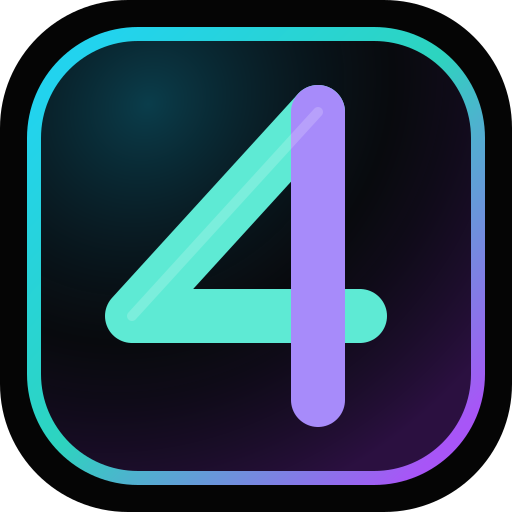
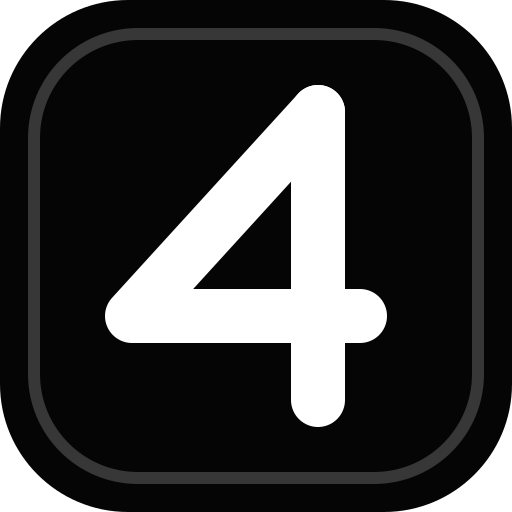
fix: adotar marca JE4NDEV monocromática

diff --git a/docs/brand/email-signature.html b/docs/brand/email-signature.html
@@ -1,0 +1,30 @@
+<!doctype html>
+<html lang="pt-BR">
+  <head>
+    <meta charset="utf-8" />
+    <title>Assinatura de e-mail JE4NDEV</title>
+  </head>
+  <body style="margin: 0; background: #ffffff; font-family: Arial, sans-serif; color: #111111">
+    <table role="presentation" cellpadding="0" cellspacing="0" border="0" style="width: 100%; max-width: 520px">
+      <tr>
+        <td style="padding: 0 22px 0 0; vertical-align: middle; border-right: 1px solid #d4d4d8">
+          <img
+            src="https://je4ndev.com/brand/je4ndev-wordmark-black.svg"
+            width="148"
+            alt="JE4NDEV"
+            style="display: block; width: 148px; height: auto; border: 0"
+          />
+        </td>
+        <td style="padding: 0 0 0 22px; vertical-align: middle">
+          <p style="margin: 0 0 4px; font-size: 15px; line-height: 20px; font-weight: 700">Jean Carlos Vargas</p>
+          <p style="margin: 0 0 10px; font-size: 12px; line-height: 17px; color: #52525b">Founder · Sites, sistemas e SaaS</p>
+          <p style="margin: 0; font-size: 12px; line-height: 18px">
+            <a href="mailto:jean@je4ndev.com" style="color: #111111; text-decoration: none">jean@je4ndev.com</a><br />
+            <a href="https://je4ndev.com" style="color: #111111; text-decoration: none">je4ndev.com</a><br />
+            <a href="https://wa.me/5511948477047" style="color: #111111; text-decoration: none">+55 11 94847-7047</a>
+          </p>
+        </td>
+      </tr>
+    </table>
+  </body>
+</html>

diff --git a/src/components/brand/brand-logo.tsx b/src/components/brand/brand-logo.tsx
@@ -36,20 +36,20 @@ export function BrandLogo({ className = "", size = "md" }: BrandLogoProps) {
       >
         <path
           d="M13.5 2.5 3 14h12.5"
-          stroke="#5EEAD4"
+          stroke="currentColor"
           strokeWidth="3.2"
           strokeLinecap="round"
           strokeLinejoin="round"
         />
         <path
           d="M13.5 2.5v19"
-          stroke="#A78BFA"
+          stroke="currentColor"
           strokeWidth="3.2"
           strokeLinecap="round"
         />
       </svg>
       <span>N</span>
-      <span className="ml-[0.12em] text-purple-400">DEV</span>
+      <span className="ml-[0.12em]">DEV</span>
     </span>
   );
 }

diff --git a/src/components/layout/navbar.tsx b/src/components/layout/navbar.tsx
@@ -68,7 +68,7 @@ export function Navbar() {
             onClick={closeMobile}
             aria-label="JE4NDEV"
           >
-            <BrandLogo className="transition-[filter,letter-spacing] duration-300 group-hover:tracking-[0.11em] group-hover:drop-shadow-[0_0_12px_rgba(94,234,212,0.24)]" />
+            <BrandLogo className="transition-[opacity,letter-spacing] duration-300 group-hover:tracking-[0.11em] group-hover:opacity-80" />
           </Link>
 
           {/* Desktop nav */}

diff --git a/docs/CLAUDE-DESIGN-INTEGRATION.md b/docs/CLAUDE-DESIGN-INTEGRATION.md
@@ -51,7 +51,7 @@ Reading `src/components/sections/*` and `src/i18n/translations/*` in the repo wi
 ├── SKILL.md                   ← agent skill manifest (use with Claude Code)
 ├── colors_and_type.css        ← all tokens — colors, type, radii, shadows
 ├── assets/                    ← logos, hero photo, project screenshots
-│   ├── brand-icon.svg            Custom 4 mark with cyan→violet gradient
+│   ├── brand-icon.svg            Monochrome custom 4 mark
 │   ├── apple-touch-icon.png      180×180 brand icon (raster)
 │   ├── android-chrome-512x512.png
 │   ├── favicon-32x32.png
@@ -93,7 +93,7 @@ Reading `src/components/sections/*` and `src/i18n/translations/*` in the repo wi
 ### Casing
 - **Sentence case for headings.** `Projetos selecionados`, not `Projetos Selecionados`. Even at h1.
 - **UPPERCASE only for eyebrows / overlines.** Tracked `0.18em`, weight 600, accent-violet color. Example: `PROJETOS EM DESTAQUE`.
-- **lowercase + UPPERCASE letter-mix in code.** `je4ndev`, `JE4NVRG`, `je4ndev/build` — the brand name is intentionally stylised.
+- **JE4NDEV is always uppercase in brand applications.** Lowercase is reserved for domains, emails, URLs, and code identifiers.
 - **Status pills are lowercase**: `live`, `mvp`, `case`, `internal`, `demo`.
 
 ### Numbers and stats
@@ -146,7 +146,7 @@ Reading `src/components/sections/*` and `src/i18n/translations/*` in the repo wi
 ### Color usage rules
 - **`#050505` base + `#ededed` foreground** is the resting state.
 - **Accents are functional, not decorative.**
-  - **Cyan `#5EEAD4`** = terminal output, hover lift on featured project cards, custom 4 diagonal.
+  - **Cyan `#5EEAD4`** = terminal output and hover lift on featured project cards. Never apply it to the logo.
   - **Violet `#8B5CF6`** = eyebrow labels, service icon backgrounds, ::selection.
   - **Emerald `#10B981`** = `$` prompt, `live` status, strengths checkmarks.
   - **Magenta / pink `#EC4899`** = single-instance accents (pricing metric, contact title gradient).
@@ -172,7 +172,7 @@ Reading `src/components/sections/*` and `src/i18n/translations/*` in the repo wi
 ### Borders
 - Every interactive surface has a **single-pixel white ring at low alpha**: `border-white/[0.06]` resting, `border-white/[0.1]` for slightly elevated, `border-white/[0.16]` on hover.
 - No double borders. No dashed. No colored borders **except** status pills (10–25% alpha of the status color).
-- Brand icon uses a `border-cyan-300/25` — the only ringed accent.
+- Brand icon is monochrome and has no colored ring.
 
 ### Corner radii
 - **`16px` minimum** for any card or button container — this is a hard brand rule.
@@ -187,7 +187,7 @@ Reading `src/components/sections/*` and `src/i18n/translations/*` in the repo wi
 - Two exceptions:
   - Project cards: `shadow-[0_22px_80px_-55px_rgba(255,255,255,0.35)]` — a **white halo bloom downward** that reads as "lifted off black" rather than "casting a shadow on white".
   - Hero photo card: `shadow-2xl shadow-black/40` — a deep black absorption shadow.
-- Brand icon: `shadow-[0_0_28px_-14px_rgba(34,211,238,0.9)]` — a **cyan glow** (the only colored glow in the system).
+- Brand icon and wordmark never use glow or colored shadows.
 
 ### Transparency & blur
 - **Backdrop-blur is reserved for chrome.** Navbar (`backdrop-blur-xl`), mobile menu overlay (`backdrop-blur-sm`), and a soft `backdrop-blur-[2px]` on the gradient strip over the hero photo.
@@ -261,8 +261,10 @@ artwork:    aspect-[16/9] with project gradient + image + bottom black fade
 - A **pulsing green dot** built from two stacked spans (`animate-ping` outer + solid `bg-green-500` inner). Used in: hero status badge, project `live` pill. Never replaced with an emoji.
 
 ### Logo / brand identity
-- `public/je4ndev-logo.svg` — the complete JE4NDEV wordmark. The custom 4 replaces the A and is the only compact symbol derived from the name.
-- `public/brand-icon.svg` — a 512×512 rounded square using the same custom 4 for favicons and app shortcuts.
+- The identity is strictly monochrome: black on light backgrounds or white on dark backgrounds.
+- `public/je4ndev-logo.svg` — the adaptive complete JE4NDEV wordmark. The custom 4 replaces the A and is the only compact symbol derived from the name.
+- `public/brand/` — explicit black and white wordmarks and symbols for print, embroidery, engraving, uniforms, and email.
+- `public/brand-icon.svg` — a 512×512 black app icon using the white custom 4 for favicons and shortcuts.
 - The runtime `BrandLogo` renders the complete wordmark in navigation and footer. Never abbreviate the brand in customer-facing UI.
 
 ### Emoji & unicode

diff --git a/docs/brand/README.md b/docs/brand/README.md
@@ -1,0 +1,49 @@
+# Identidade JE4NDEV
+
+## Princípio
+
+A marca é monocromática. O logotipo deve aparecer somente em preto ou branco.
+Ciano, violeta e outras cores pertencem à interface dos produtos e nunca ao
+logotipo.
+
+O `4` desenhado sob medida substitui a letra A em JE4NDEV. O nome nunca deve ser
+abreviado na comunicação com clientes.
+
+## Arquivos oficiais
+
+| Uso | Fundo claro | Fundo escuro |
+| --- | --- | --- |
+| Logo principal | `je4ndev-wordmark-black.svg` | `je4ndev-wordmark-white.svg` |
+| Símbolo compacto | `je4ndev-symbol-black.svg` | `je4ndev-symbol-white.svg` |
+
+Os arquivos estão em `public/brand/`.
+
+## Aplicações
+
+- Cartão e papelaria: logo preto sobre branco ou branco sobre preto.
+- Uniforme e bordado: uma única linha/cor; símbolo com pelo menos 20 mm.
+- Garrafa e gravação: símbolo ou wordmark em uma cor, sem fundo e sem efeitos.
+- Assinatura de e-mail: wordmark preto, 140 a 180 px de largura.
+- Site: wordmark branco na navbar escura; cores do produto ficam fora da marca.
+- Favicon: símbolo branco sobre fundo preto.
+
+## Tamanhos mínimos
+
+- Wordmark digital: 120 px de largura.
+- Wordmark impresso: 35 mm de largura.
+- Símbolo digital: 24 px.
+- Símbolo impresso/bordado: 10 mm; preferir 20 mm em tecido.
+
+## Não fazer
+
+- Não usar gradiente, glow, sombra ou contorno colorido.
+- Não alterar as proporções ou o espaçamento.
+- Não usar símbolos prontos de bancos de ícones ou Canva.
+- Não abreviar o nome.
+- Não posicionar sobre fundos com pouco contraste.
+
+## Assinatura de e-mail
+
+O modelo pronto está em `docs/brand/email-signature.html`. Antes de usar,
+publique os assets no domínio e copie o HTML renderizado para o cliente de
+e-mail.

diff --git a/DESIGN.md b/DESIGN.md
@@ -51,6 +51,19 @@ Estética alvo: **premium tech editorial dark** — Linear × Vercel × Stripe P
 Tokens canônicos em `src/styles/design-tokens.css` e `tailwind.config`.
 Tudo fora desses tokens passa por revisão.
 
+## Identidade da marca
+
+- O logotipo JE4NDEV é sempre monocromático: preto em fundo claro ou branco
+  em fundo escuro.
+- Ciano, violeta, magenta e demais cores são acentos da interface e nunca
+  devem colorir o logotipo.
+- O `4` customizado substitui a letra A e pode ser usado sozinho somente como
+  favicon, ícone de app, bordado ou gravação compacta.
+- Na navegação, papelaria e comunicação com clientes, usar o wordmark completo
+  JE4NDEV em caixa alta.
+- Não usar gradiente, glow, sombra, símbolo de banco de ícones ou abreviações.
+- Assets oficiais e aplicações: `docs/brand/README.md` e `public/brand/`.
+
 ## Tipografia
 
 - **Geist Sans** para texto e títulos. Tracking apertado em H1 (`tracking-tight`).
